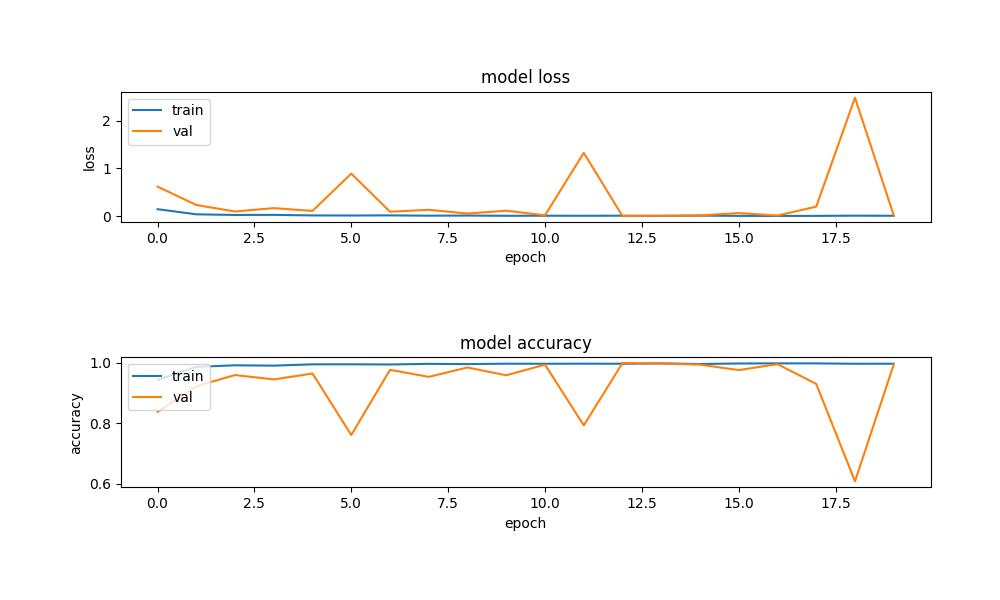
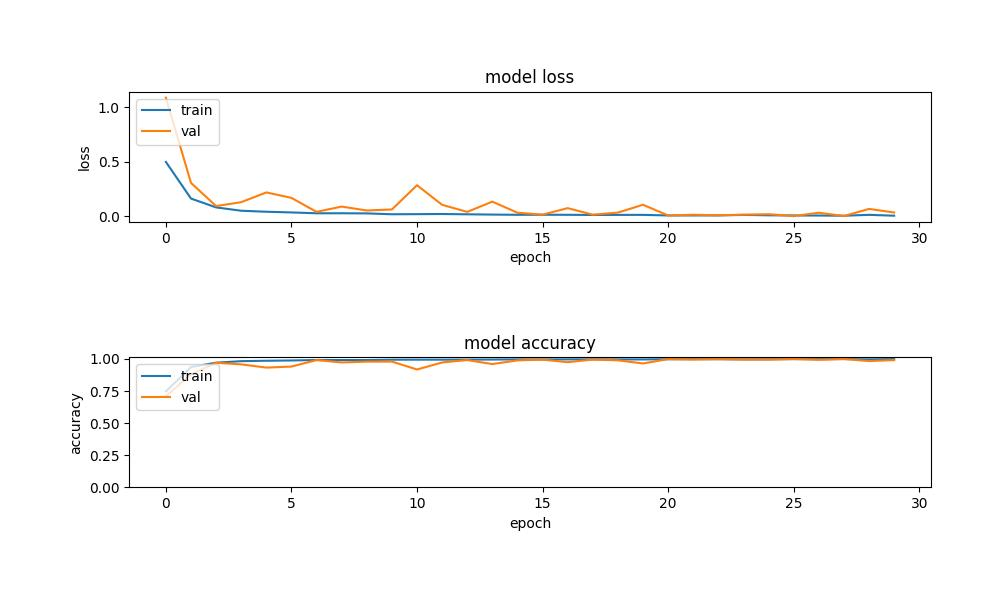
change model

diff --git a/cnnmodel.py b/cnnmodel.py
@@ -1,44 +1,65 @@
 import os
 
-from keras.losses import Loss
-from matplotlib import pyplot as plt
-from cv2 import cv2
-import numpy as np
-from keras import Sequential
-from keras.layers import Conv2D, MaxPooling2D, Dropout, Flatten, Dense
-import tensorflow as tf
 import keras
+import numpy as np
+import tensorflow as tf
+from cv2 import cv2
+from keras import Sequential, layers
+from keras.layers import Conv2D, MaxPooling2D, Flatten, Dense, AveragePooling2D
 from keras.metrics import Precision, Recall, BinaryAccuracy
-
-from loaddata import labelfeaturemapping
+from matplotlib import pyplot as plt
 
 output_dim_num = 5
+
 
 def create_classifier(finger, input_shape=(64, 64, 3)):
     model = Sequential()
 
-    # block 1
-    model.add(Conv2D(32, (3, 3), activation=tf.nn.relu, padding='same', input_shape=input_shape))
-    model.add(Conv2D(32, (3, 3), activation=tf.nn.relu, padding='same'))
-
-    model.add(Conv2D(64,(2,2),strides=(2,2),padding='same', activation=tf.nn.relu))
-    # model.add(MaxPooling2D())
+    # # block 1
+    # model.add(Conv2D(16, (5, 5), activation=tf.nn.relu, padding='same', input_shape=input_shape))
+    # model.add(Conv2D(16, (3, 3), activation=tf.nn.relu, padding='same'))
+    # model.add(Conv2D(16, (3, 3), activation=tf.nn.relu, padding='same'))
+    # # model.add(Conv2D(16, (3, 3), activation=tf.nn.relu, padding='same'))
+    #
+    # model.add(Conv2D(16,(6,6),strides=(2,2),activation=tf.nn.relu))
 
     # block 2
-    model.add(Conv2D(64, (3, 3), activation=tf.nn.relu, padding='same'))
-    model.add(Conv2D(64, (3, 3), activation=tf.nn.relu, padding='same'))
-    model.add(Conv2D(64, (3, 3), activation=tf.nn.relu, padding='same'))
+    model.add(Conv2D(32, (5, 5), activation=tf.nn.relu, padding='same',input_shape=input_shape))
+    model.add(Conv2D(32, (3, 3), activation=tf.nn.relu, padding='same'))
+    # model.add(Conv2D(32, (3, 3), activation=tf.nn.relu, padding='same'))
+    # model.add(Conv2D(32, (3, 3), activation=tf.nn.relu, padding='same'))
+
+    model.add(Conv2D(32,(6,6),strides=(3,3),activation=tf.nn.relu))
+
+    # model.add(AveragePooling2D())
+
     # model.add(Conv2D(64,(2,2),strides=(2,2),padding='same'))
-    model.add(Conv2D(64,(6,6),strides=(2,2),padding='same', activation=tf.nn.selu))
+    # model.add(Conv2D(32,(5,5),strides=(2,2),padding='same', activation=tf.nn.relu))
     # model.add(MaxPooling2D())
 
     # block 3
-    # model.add(Conv2D(128, (3, 3), activation=tf.nn.relu, padding='same', input_shape=input_shape))
-    # model.add(Conv2D(128, (3, 3), activation=tf.nn.relu, padding='same', input_shape=input_shape))
-    # model.add(Conv2D(128, (3, 3), activation=tf.nn.relu, padding='same', input_shape=input_shape))
-    # model.add(Conv2D(128, (3, 3), activation=tf.nn.relu, padding='same'))
-    # # model.add(Conv2D(64, (3, 3), activation=tf.nn.relu, padding='same'))
-    # model.add(Conv2D(128,(2,2),strides=(2,2),padding='same'))
+    model.add(Conv2D(64, (5, 5), activation=tf.nn.relu, padding='same'))
+    model.add(Conv2D(64, (3, 3), activation=tf.nn.relu, padding='same'))
+    model.add(Conv2D(64, (3, 3), activation=tf.nn.relu, padding='same'))
+    # model.add(Conv2D(64, (3, 3), activation=tf.nn.relu, padding='same'))
+    # model.add(Conv2D(64, (3, 3), activation=tf.nn.relu, padding='same'))
+    # model.add(Conv2D(64, (3, 3), activation=tf.nn.relu, padding='same'))
+
+    model.add(Conv2D(64,(6,6),strides=(3,3),activation=tf.nn.relu))
+
+    # model.add(Conv2D(64, (3, 3), activation=tf.nn.relu, padding='same'))
+    # model.add(Conv2D(64,(3,3),strides=(2,2),padding='same', activation='relu'))
+
+    # block 4
+    # model.add(Conv2D(64, (3, 3), activation=tf.nn.relu, padding='same'))
+    # model.add(Conv2D(64, (3, 3), activation=tf.nn.relu, padding='same'))
+    # model.add(Conv2D(64, (3, 3), activation=tf.nn.relu, padding='same'))
+    # model.add(Conv2D(64, (3, 3), activation=tf.nn.relu, padding='same'))
+    # model.add(Conv2D(64, (3, 3), activation=tf.nn.relu, padding='same'))
+    #
+    # model.add(MaxPooling2D())
+    # model.add(Conv2D(64, (3, 3), activation=tf.nn.relu, padding='same'))
+    # model.add(Conv2D(64,(3,3),strides=(2,2),padding='same', activation='relu'))
 
     # FCL
     model.add(Flatten())
@@ -47,7 +68,7 @@ def create_classifier(finger, input_shape=(64, 64, 3)):
     model.add(Dense(128, activation=tf.nn.tanh))
     model.add(Dense(1, activation=tf.nn.sigmoid))
 
-    model.compile(optimizer='sgd', loss=tf.losses.MeanSquaredError(), metrics=['accuracy'])
+    model.compile(optimizer='adam', loss=tf.losses.MeanSquaredError(), metrics=['accuracy'])
 
     model.summary()
     model.save(os.path.join('models', str(finger) + '.h5'))
@@ -55,15 +76,15 @@ def create_classifier(finger, input_shape=(64, 64, 3)):
     return model
 
 
-def load_classifier(finger):
-    model_name = 'resnet' + str(finger) + '.h5'
+def load_classifier(finger, model_type = 'resnet'):
+    model_name = model_type + str(finger) + '.h5'
     print(f"loading{model_name}")
     return load_model(model_name)
 
 
-def continue_training_classifier(finger, train_data, val_data, epoch=1):
+def continue_training_classifier(finger, train_data, val_data, epoch):
     model_name = str(finger) + '.h5'
-    return continue_training_model(model_name, train_data, val_data)
+    return continue_training_model(model_name, train_data, val_data, epoch)
 
 
 def create_model(model_name, input_shape=(64, 64, 3)):
@@ -164,7 +185,7 @@ def test(test_data):
         # print(f'Binary Accuracy: {binary_accuracy.result().nunpy()}')
 
 
-def predict_image(model, image, input_shape=(64, 64, 3)):
+def predict_image(model, image, input_shape):
     resize = tf.image.resize(image, (input_shape[0], input_shape[1]))
     return model.predict(np.expand_dims(resize / 255.0, 0))
 
@@ -194,14 +215,14 @@ def continue_training_model(model_name, train_data, val_data, epoch):
     history = model.fit(train_data, epochs=epoch, validation_data=val_data, callbacks=[tensorboard_callback])
 
     model.save(os.path.join('models', model_name))
-    print(f"save to {os.path.join('models',model_name)}")
+    print(f"save to {os.path.join('models', model_name)}")
 
-    fig, ax  = plt.subplots(nrows=2,ncols=1,figsize= (10,6))
+    fig, ax = plt.subplots(nrows=2, ncols=1, figsize=(10, 6))
 
     ax[0].plot(history.history['loss'])
     ax[0].plot(history.history['val_loss'])
     ax[0].title.set_text('model loss')
-    ax[0].set(xlabel = 'epoch', ylabel = 'loss')
+    ax[0].set(xlabel='epoch', ylabel='loss')
     # ax[0].xlabel('epoch')
     ax[0].legend(['train', 'val'], loc='upper left')
 
@@ -210,7 +231,7 @@ def continue_training_model(model_name, train_data, val_data, epoch):
     ax[1].title.set_text('model accuracy')
     # ax[1].ylabel('accuracy')
     # ax[1].xlabel('epoch')
-    ax[1].set(xlabel = 'epoch', ylabel = 'accuracy', yticks =[0,0.25,0.5,1])
+    ax[1].set(xlabel='epoch', ylabel='accuracy', yticks=[0, 0.25, 0.5, 0.75, 1])
     ax[1].legend(['train', 'val'], loc='upper left')
     plt.tight_layout(pad=5)
     plt.savefig(f"training_{model_name}.jpeg")

diff --git a/app.py b/app.py
@@ -1,25 +1,21 @@
 import math
 import os
-import threading
 
-import keras.models
 import cv2.cv2
-import numpy
 import numpy as np
-
-import cnnmodel
-import cnnmodel2
-import handgestureregconition
-import loaddata.datapreprocessor
 from matplotlib import pyplot as plt
 
-from loaddata import labelfeaturemapping
+import cnnmodel
+import inception_model
+import resnet_model
+import handgestureregconition
+import loaddata.datapreprocessor
 
 
-def create_trained_model(epoch=20, input_shape=(64, 64, 3)):
+def create_trained_model(input_shape, epoch=20):
     model = cnnmodel.create_model('model1.h5')
     train_ds, val_ds = loaddata.datapreprocessor.load_data_from_folder('data').create_data_set(input_shape=input_shape,
-                                                                                                apply_augmentation=False)
+                                                                                               apply_augmentation=False)
     for i in range(epoch):
         print(f"epoch{i}")
         cnnmodel.train_model(model, train_ds, val_ds, epochs=1)
@@ -29,8 +25,8 @@ def create_img_data(label, img_num=50, data_dir='test'):
     handgestureregconition.recorde_hand_gesture(label, data_dir, img_num)
 
 
-def test(model_name):
-    handgestureregconition.run(model_name)
+def test(model_name, input_shape):
+    handgestureregconition.run(model_name, input_shape=input_shape)
 
 
 def check_data(finger):
@@ -58,11 +54,12 @@ def continue_training(epoch=20, input_shape=(64, 64, 3)):
         cnnmodel.continue_training_model('model1.h5', train_ds, val_ds, epoch=1)
 
 
-def create_classifier_finger(finger, epoch, input_shape=(64, 64, 3)):
+def create_classifier_finger(finger, epoch, input_shape):
     # model = cnnmodel.create_classifier(finger)
-    model = cnnmodel2.create_resnet_classifier(finger,input_shape)
+    model = resnet_model.create_resnet_classifier(finger, input_shape)
+    # model = inception_model.create_inception_classifier(finger, input_shape)
     train_ds, val_ds = loaddata.datapreprocessor.load_data_from_folder('data').create_data_set_finger(finger,
-                                                                                                       input_shape=input_shape)
+                                                                                                      input_shape=input_shape)
     # batch = next(iter(train_ds))
     # labels = batch[1]
     # images = batch[0]
@@ -81,42 +78,43 @@ def create_classifier_finger(finger, epoch, input_shape=(64, 64, 3)):
     # for i in range(epoch):
     #     print(f"epoch{i}")
 
-    cnnmodel2.continue_training_classifier(finger, train_ds, val_ds,epoch)
+    # cnnmodel.continue_training_classifier(finger, train_ds, val_ds, epoch)
+    resnet_model.continue_training_classifier(finger, train_ds, val_ds, epoch)
+    # inception_model.continue_training_classifier(finger,train_ds, val_ds, epoch)
 
 
 def continue_training_classifier(finger, epoch, input_shape=(64, 64, 3)):
     train_ds, val_ds = loaddata.datapreprocessor.load_data_from_folder('data').create_data_set_finger(finger,
-                                                                                                       input_shape=input_shape)
+                                                                                                      input_shape=input_shape)
     for i in range(epoch):
         print(f"epoch{i}")
-        cnnmodel2.continue_training_classifier(finger, train_ds, val_ds, epoch=1)
+        resnet_model.continue_training_classifier(finger, train_ds, val_ds, epoch=1)
 
 
-from keras.layers import *
-import tensorflow as tf
-
-
-def test_model():
+def test_model(model_type, input_shape, test_data_dir='test'):
     acc = []
-    test_data_dir ='test'
     for finger in range(0, 5):
         img_count = 0
-        right_ans = 0;
-        model = cnnmodel.load_classifier(finger)
+        right_ans = 0
+        model = cnnmodel.load_classifier(finger, model_type=model_type)
         for label in os.listdir(test_data_dir):
             s = label.split(sep=' ')
             y = float(label[finger])
             for img in os.listdir(os.path.join(test_data_dir, label)):
                 img_count += 1
-                yhat = cnnmodel.predict_image(model, cv2.cvtColor(cv2.imread(os.path.join(test_data_dir,label,img)),cv2.COLOR_BGR2RGB))
+                yhat = cnnmodel.predict_image(model, cv2.cvtColor(cv2.imread(os.path.join(test_data_dir, label, img)),
+                                                                  cv2.COLOR_BGR2RGB), input_shape=input_shape)
                 if (yhat - 0.5) * (y - 0.5) > 0:
                     right_ans += 1
 
         acc.append(right_ans / img_count)
     print(acc)
+    return acc
+
 
 def run_model():
     handgestureregconition.run_2()
+
 
 def test_model2():
     n = 16
@@ -127,8 +125,8 @@ def test_model2():
     for ix, img in enumerate(os.listdir('test2')):
         i = int(ix / ncol)
         j = int(ix % ncol)
-        img = cv2.imread(os.path.join('test2',img))
-        img = cv2.cvtColor(img,cv2.COLOR_BGR2RGB)
+        img = cv2.imread(os.path.join('test2', img))
+        img = cv2.cvtColor(img, cv2.COLOR_BGR2RGB)
         ax[i][j].imshow(img)
         yhats = [np.squeeze(cnnmodel.predict_image(model, img)) for model in models]
         # print(str(yhats))
@@ -143,23 +141,30 @@ def test_model2():
 
 
 if __name__ == "__main__":
+    input_shape = (32, 32, 3)
     # create_classifier_finger(0,10)
     # threads = [None]*6
     # create_classifier_finger(0,30)
     # continue_training_classifier(0,20)
     # for i in range(0,5):
-    #     check_data(i)
-    for i in range(0, 5):
-        create_classifier_finger(i, 20 )
+    # check_data(0)
+    # for i in range(0, 5):
+    #     create_classifier_finger(i, 20,input_shape=input_shape)
+    # create_classifier_finger(0, 20,input_shape=input_shape)
+
     # continue_training_classifier(0,100)
     # create_img_data('11111', 100, data_dir='seen_test')
-    # test('resnet0.h5')
+    test('inception_0.h5',input_shape=input_shape)
+
+    # test_model(model_type='inception_',input_shape=input_shape,test_data_dir='test')
 
     # model = cnnmodel.load_model('2.h5')
     # cnnmodel.predict(model,os.path.join('data1/01110','100.jpeg'))
 
-    # check_data(2)
-    # test_model2()
-    # test_model()
+    # a = test_model(model_type='resnet_v2_', test_data_dir='seen_test', input_shape=input_shape)
+    # b = test_model(model_type='resnet_v2_', test_data_dir='test', input_shape=input_shape)
+    #
+    # print(a)
+    # print(b)
     # run_model()
     pass

diff --git a/handgestureregconition.py b/handgestureregconition.py
@@ -29,7 +29,7 @@ def set_prediction(window_name, yhat):
 from matplotlib import pyplot as plt
 
 
-def run(model_name):
+def run(model_name,input_shape):
     model = cnnmodel.load_model(model_name)
     start_point = (150,150)
     end_point = (450,450)
@@ -38,7 +38,7 @@ def run(model_name):
         if not retval: break
         cv2.rectangle(frame, pt1=start_point, pt2=end_point, color=(180, 180, 20), thickness=2)
         frame_rgb = cv2.cvtColor(frame, cv2.COLOR_BGR2RGB)[150:450,150:450]
-        yhat = cnnmodel.predict_image(model, frame_rgb)
+        yhat = cnnmodel.predict_image(model, frame_rgb,input_shape=input_shape)
 
         window_name = 'test'
         cv2.imshow(window_name, frame)
@@ -55,7 +55,7 @@ def use_augmentation():
 
 
 def recorde_hand_gesture(label_name, data_dir, img_num):
-    frame_step = 3
+    frame_step = 10
     img_folder_path = os.path.join(data_dir, label_name)
     if not os.path.isdir(img_folder_path):
         os.mkdir(img_folder_path)
@@ -101,7 +101,7 @@ def recorde_hand_gesture(label_name, data_dir, img_num):
 
 
 def run_2():
-    models = [cnnmodel.load_classifier(finger) for finger in range(0, 5)]
+    models = [cnnmodel.load_classifier(finger,model_type='resnet') for finger in range(0, 5)]
     window_name = 'test'
     start_point = (150,150)
     end_point = (450,450)

diff --git a/loaddata/datapreprocessor.py b/loaddata/datapreprocessor.py
@@ -46,7 +46,7 @@ class DataLoader:
                     print('Issue with Image: {}'.format(image_path))
                     print(e)
 
-    def create_data_set(self, input_shape=(64, 64, 3), apply_augmentation=False, aug_rate=1):
+    def create_data_set(self, input_shape, apply_augmentation=False, aug_rate=1):
         val_rate = 0.2
         # img_height = input_shape[0]
         # img_width = input_shape[1]
@@ -115,7 +115,7 @@ class DataLoader:
         #     print(label[0])
 
         return train_ds, val_ds
-    def create_data_set_finger(self,finger, input_shape=(64, 64, 3), apply_augmentation=False, aug_rate=1):
+    def create_data_set_finger(self,finger, input_shape, apply_augmentation=False, aug_rate=1):
         val_rate = 0.1
         # img_height = input_shape[0]
         # img_width = input_shape[1]
